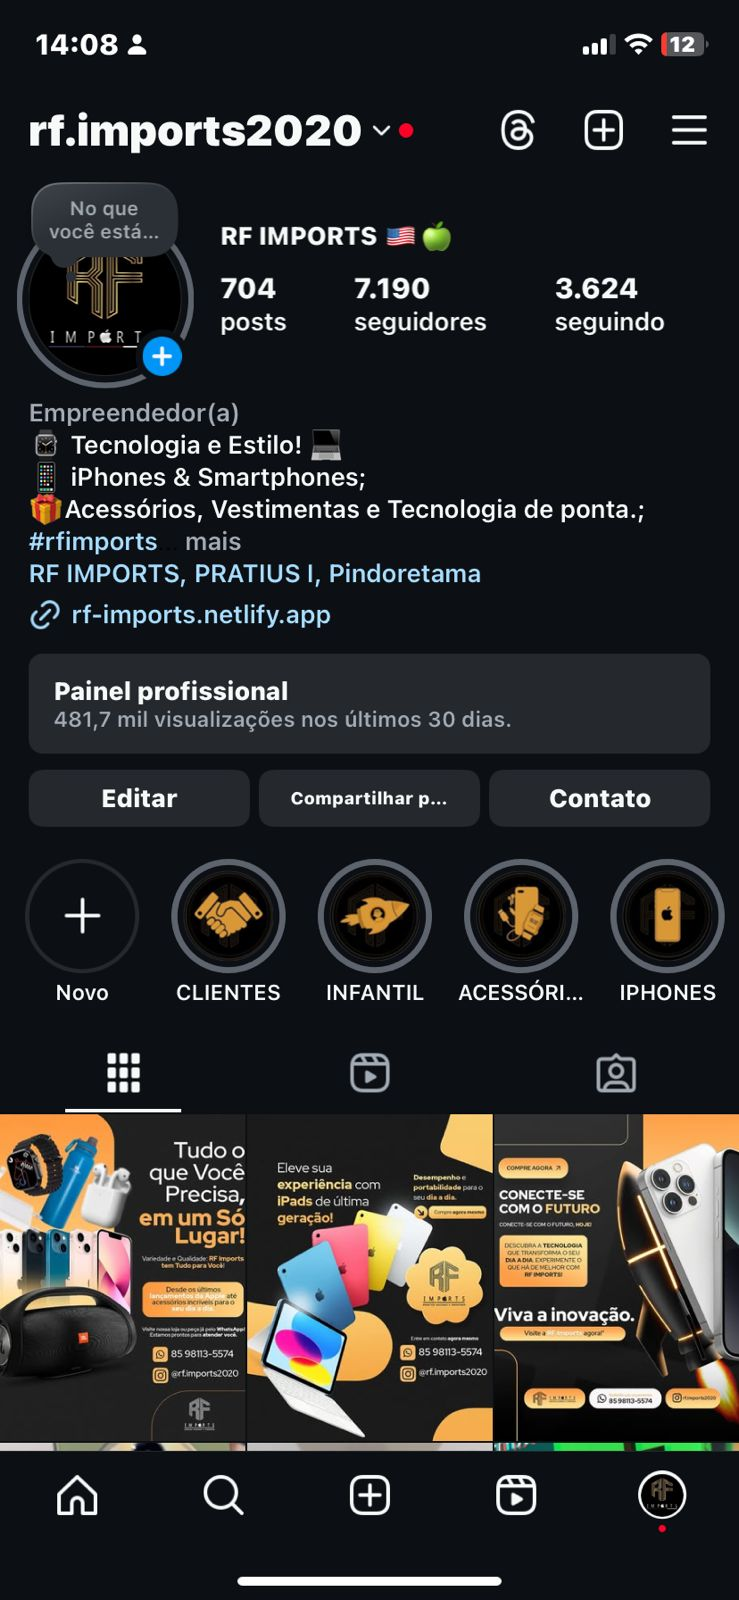
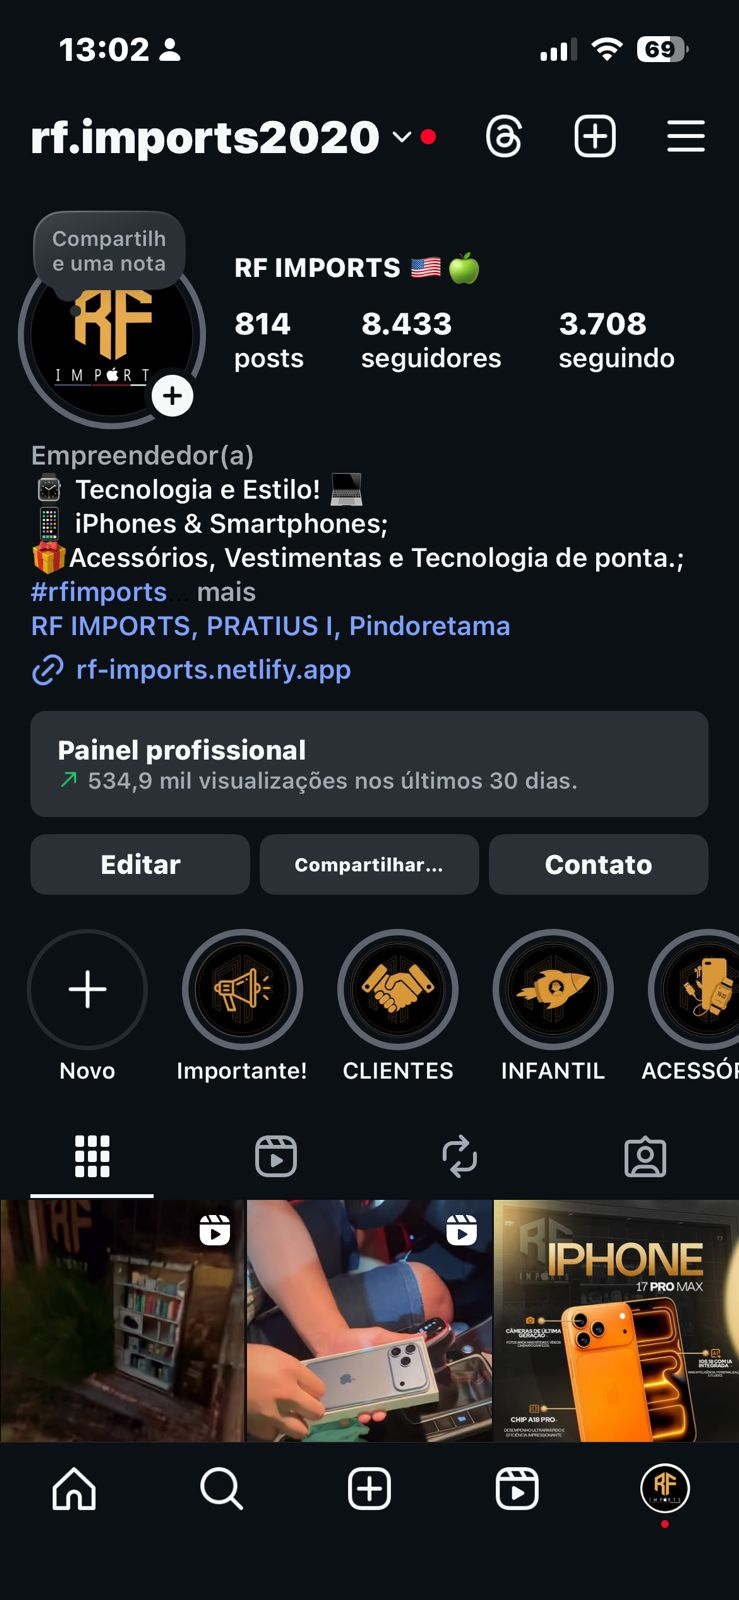
Atualiza site com novos serviços e ajustes no layout e script

diff --git a/index.html b/index.html
@@ -36,7 +36,7 @@
         <section id="hero" class="hero">
             <div class="hero-image-container">
                 <!-- Imagem centralizada -->
-                <img src="imagens/meu carrossel.png" alt="Estratégias Digitais" class="hero-image">
+                <img src="imagens/capa perfect.png" alt="Estratégias Digitais" class="hero-image">
             </div>
             <div class="hero-content">
                 <!-- Informações abaixo da imagem -->
@@ -65,6 +65,18 @@
                     <h3>Consultoria Estratégica</h3>
                     <p>Planejamos estratégias que aumentam vendas e engajamento.</p>
                 </div>
+
+                 <div class="card">
+                     <i class="bi bi-phone"></i>
+                     <h3>Gerenciamento de Redes Sociais</h3>
+                    <p>Cuidamos da presença online da sua marca com estratégia, constância e conteúdo de valor.</p>
+                </div>
+
+               <div class="card">
+                     <i class="bi bi-camera-video"></i>
+                     <h3>Criação e Edição de Vídeos</h3>
+                     <p>Produzimos vídeos criativos e profissionais que comunicam, engajam e vendem.</p>
+                    </div>
             </div>
         </section>
         
@@ -120,7 +132,7 @@
         <div class="projeto-card">
           <img src="imagens/logo gg.png" alt="Logo GG do Corte" class="logo">
           <h3>GG do Corte</h3>
-          <img src="imagens/projetos/gg print.jpeg" alt="Instagram GG do Corte" class="instagram-print">
+          <img src="imagens/projetos/pint GG.jpeg" alt="Instagram GG do Corte" class="instagram-print">
           <div class="botoes">
             <a href="https://ggdocorte.netlify.app/" class="btn">Ver Landing Page</a>
             <a href="https://www.instagram.com/barberggdocorte/" target="_blank" class="btn">Ver Instagram</a>
@@ -158,7 +170,7 @@
             <a href="https://loja-virgem-de-guadalupe.netlify.app/" class="btn">Ver Landing Page</a>
             <a href="https://www.instagram.com/lojavirgemdeguadalupe/" target="_blank" class="btn">Ver Instagram</a>
           </div>
-        </div>
+        </div>                      mi 
 
         <!-- CARD 6 -->
         <div class="projeto-card">
@@ -193,6 +205,20 @@
         </div>
     </section>
     
+<section id="videos" class="servicos">
+  <div class="container">
+    <h2>Conheça Nossa Empresa</h2>
+
+    <div class="videos-container">
+      <blockquote class="instagram-media" data-instgrm-permalink="https://www.instagram.com/reel/DPSCIUXAV2g/" data-instgrm-version="14" style="margin:auto;"></blockquote>
+    </div>
+  </div>
+</section>
+<script async src="//www.instagram.com/embed.js"></script>
+
+
+
+
 
      <!-- Contato -->
 <section id="contato" class="contato">

diff --git a/style.css b/style.css
@@ -821,3 +821,79 @@ footer {
         font-size: 1.2em; /* Ícone menor */
     }
 }
+
+/* ===== Seção de Vídeos ===== */
+.videos-container {
+    display: flex;
+    flex-wrap: wrap;
+    justify-content: center;
+    gap: 25px;
+    margin-top: 30px;
+}
+
+.video-card {
+    background: linear-gradient(to bottom, #1a1a1a, #333333);
+    border-radius: 12px;
+    overflow: hidden;
+    width: 300px;
+    cursor: pointer;
+    box-shadow: 0 4px 10px rgba(0,0,0,0.5);
+    transition: transform 0.3s, box-shadow 0.3s;
+    text-align: center;
+}
+
+.video-card:hover {
+    transform: scale(1.05);
+    box-shadow: 0 6px 15px rgba(0,0,0,0.7);
+}
+
+.video-card img {
+    width: 100%;
+    height: 180px;
+    object-fit: cover;
+}
+
+.video-card h3 {
+    padding: 15px;
+    font-size: 1.2em;
+    background: linear-gradient(to right, #ED3237, #F8A04B);
+    -webkit-background-clip: text;
+    -webkit-text-fill-color: transparent;
+}
+
+/* ===== Modal de Vídeo ===== */
+#videos {
+    text-align: center;
+    padding: 60px 0;
+    color: #E8E3D6;
+}
+
+#videos .container {
+    max-width: 1100px;
+    margin: 0 auto;
+    padding: 0 20px;
+}
+
+.videos-container {
+    display: flex;
+    justify-content: center;
+    align-items: center;
+    flex-wrap: wrap;
+    gap: 30px;
+    margin-top: 30px;
+}
+
+.video-card {
+    background: #111;
+    border-radius: 12px;
+    overflow: hidden;
+    box-shadow: 0 4px 15px rgba(0,0,0,0.4);
+    width: 320px;
+    height: 580px;
+}
+
+.video-card iframe {
+    width: 100%;
+    height: 100%;
+    border: none;
+}

diff --git a/script.js b/script.js
@@ -73,3 +73,20 @@ document.addEventListener('DOMContentLoaded', () => {
     });
   }
 });
+l.Math
+
+function abrirVideo(url) {
+  const modal = document.getElementById("modalVideo");
+  const iframe = document.getElementById("iframeVideo");
+
+  iframe.src = url.replace("/reel/", "/reel/") + "embed"; // abre embed do Instagram
+  modal.style.display = "flex";
+}
+
+function fecharVideo() {
+  const modal = document.getElementById("modalVideo");
+  const iframe = document.getElementById("iframeVideo");
+
+  modal.style.display = "none";
+  iframe.src = ""; // limpa o vídeo
+}
